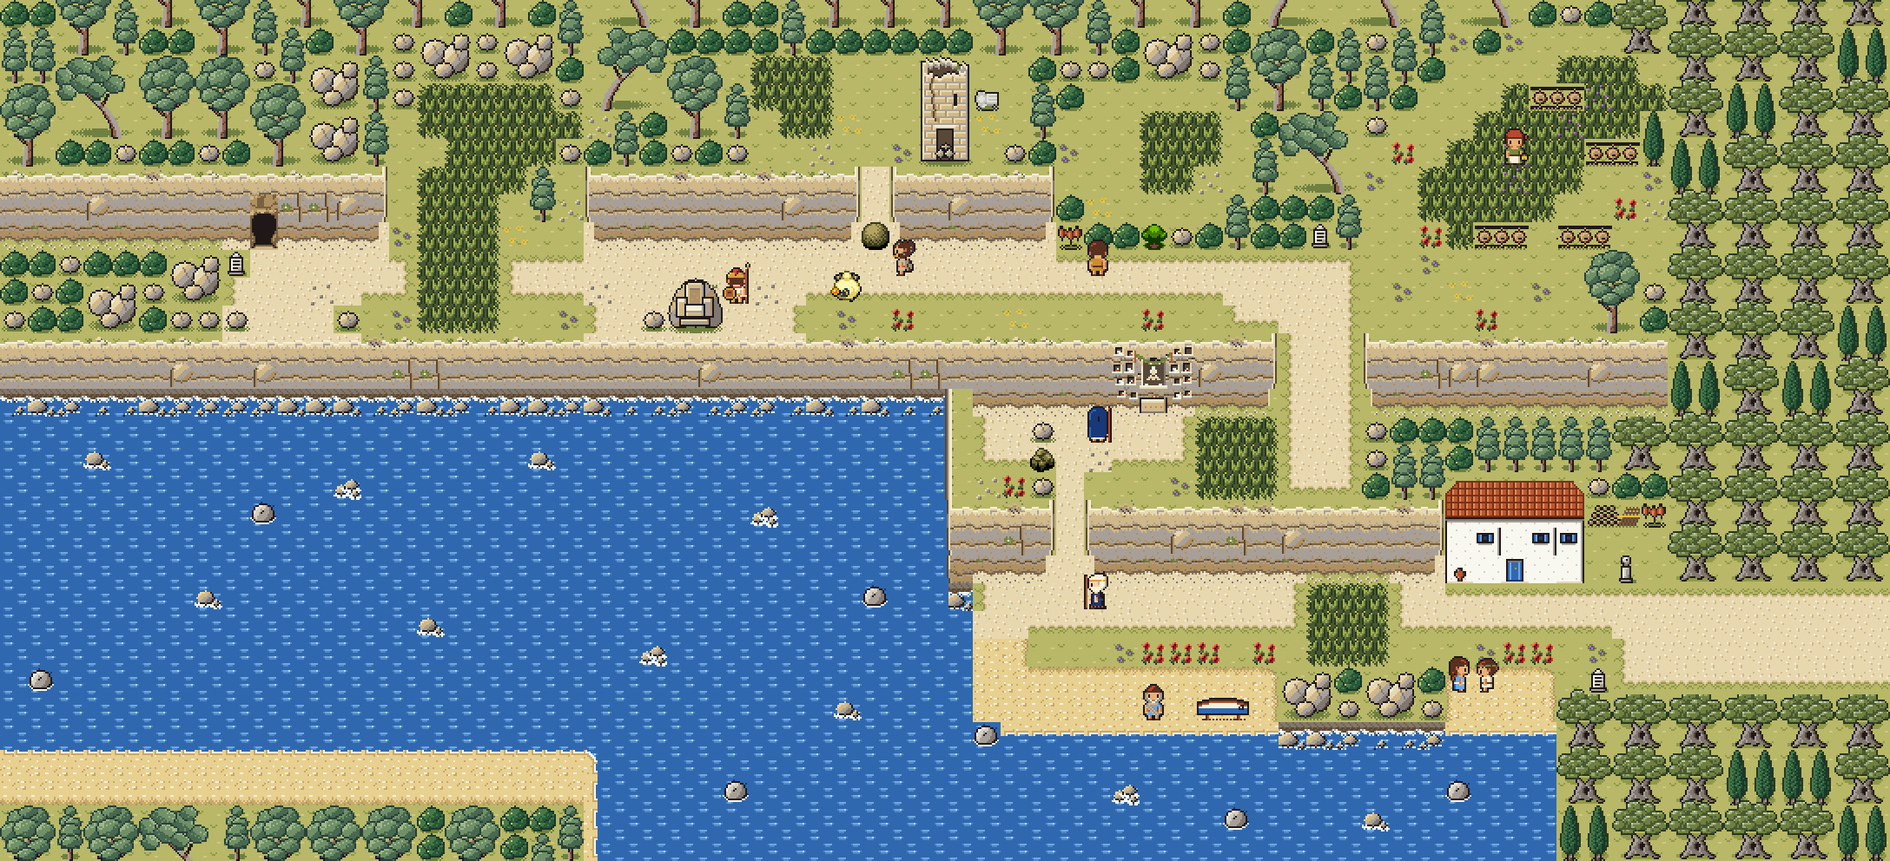
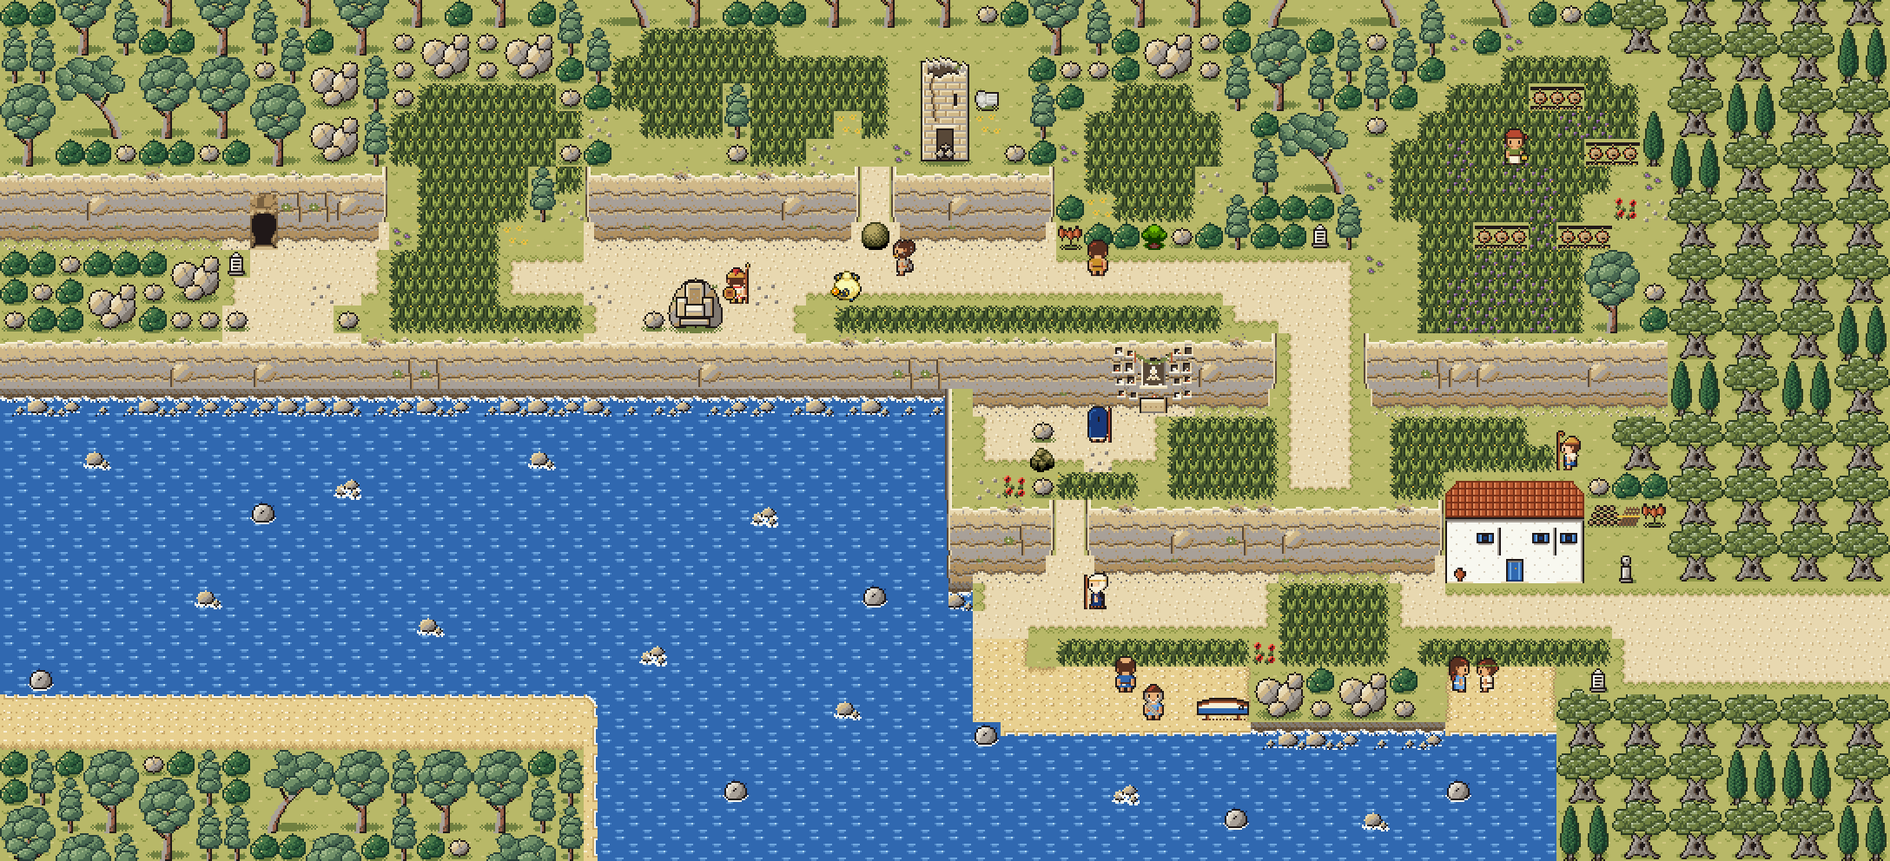
feat(map): bring Route 5 up to the land-route standard
MAP_DESIGN.md section 8 arrived mid-build, and map_audit.py classed the road
as a sea route: the strait under the cliff road was most of its open ground
and it has one connected end. It is the land road to the Mysteries, so it now
meets the land numbers: grass in every optional pocket (226 cells, 16 a
screen), four-deep bands, the terrace running on east of the cutting with a
shepherd and an Ether, a salt merchant on the beach (7 trainers), and Salamis
two rows nearer so water is under half the open ground. The audit shows 0
FAIL and 0 WARN on both maps.

diff --git a/tools/ichor/maps/route5.py b/tools/ichor/maps/route5.py
@@ -264,25 +264,26 @@ C_ROWS = (21, 23)             # the shore road: road on 21-22, a verge on 23 (4 
 C_X = (35, W - 1)
 WIDE_X = 58                   # the shore road widens to Eleusa's four rows here
 CLEARING = (14, 2, 20, 8)     # the pine clearing north of the road
-BAND1 = (15, 17)              # columns of the first forced band (clearing and road)
+BAND1 = (14, 17)            # columns of the first forced band (clearing and road)
 SEAT = (24, 10)               # rock_seat_path, 2x2: the road's one-cell ledge is (24..25, 9)
 KNOLL_GAP = 31                # the cleft up to the watchtower's knoll
-KNOLL = (26, 2, 36, 5)
+KNOLL = (22, 1, 36, 5)
 TOWER = (33, 2)               # watchtower 2x4
 HOLLOW_GAP = 41               # the thicket's gap into the pine hollow
 PINE_HOLLOW = (38, 3, 44, 7)
 STEP_X = 34                   # where the coast steps south: B's west edge
 CUT_AB = (46, 48)             # the cutting from the cliff road down to the terrace
 NICHES = (40, 12)             # niches 3x3: brink, face, foot
-BAND2 = (43, 45)              # columns of the second forced band, on the terrace
+BAND2 = (42, 45)              # columns of the second forced band, on the terrace
 STAIR_X = 38                  # the cleft stair from the terrace down to the shore
 LOOKOUT_X = 37                # the rockfall closing the terrace's lookout (35-36)
 POINT = (35, 36)              # the shore point's columns, behind the rubble at x = 37
-BAND3 = (47, 49)              # columns of the third band, on the shore road
+BAND3 = (46, 49)              # columns of the third band, on the shore road
 INN_AT = (52, 17)             # the inn's 5x4 front, its door at INN_AT + INN_DOOR
 HERM_AT = (58, 20)            # the great herm; its landing tile is south of it
 MEADOW = (49, 1, 59, 11)
-SALAMIS_ROW = 27              # Salamis's shore across the strait, bottom left
+TERRACE_END = 57              # the terrace runs on east of the cutting to here
+SALAMIS_ROW = 25              # Salamis's shore across the strait, bottom left
 
 
 # ---------------------------------------------------------------------------
@@ -325,30 +326,34 @@ def make_plan(g):
     # the pine clearing: grass among fallen boulders, the band right through it
     x0, y0, x1, y1 = CLEARING
     g.fill("grass", x0, y0 + 1, x1, y1)
-    g.rows("tall", 14, 3, [".#####.",
+    g.rows("tall", 14, 3, [".######",
+                           "#######",
+                           "#######",
                            ".######",
-                           "..#####",
                            ".####..",
                            ".###...",
-                           ".###...",
-                           ".###...",
-                           ".###...",
-                           ".###..."])
+                           "####...",
+                           "####...",
+                           "####..."])
     # the watchtower's knoll, up the cleft
     x0, y0, x1, y1 = KNOLL
     g.fill("grass", x0, y0, x1, y1)
     g.fill("path", KNOLL_GAP, y1 + 1, KNOLL_GAP, 8)
-    g.rows("tall", 27, 2, ["###.",
-                           "###.",
-                           ".##."])
+    g.rows("tall", 22, 1, [".#####....",
+                           "##########",
+                           "##########",
+                           ".#########",
+                           "....####.."])
     # the pine hollow, behind the thicket
     x0, y0, x1, y1 = PINE_HOLLOW
     g.fill("grass", x0 + 1, y0, x1 - 1, y1)
     g.fill("grass", x0, y0 + 1, x1, y1 - 1)
     g.fill("grass", HOLLOW_GAP, y1 + 1, HOLLOW_GAP, 8)
-    g.rows("tall", 39, 4, ["..###",
-                           "..###",
-                           "..##."])
+    g.rows("tall", 39, 3, [".###.",
+                           "#####",
+                           "#####",
+                           "#####",
+                           ".###."])
     # the thyme meadow, off the road's east end
     g.rows("grass", 49, 1, [".....######",
                             "...########",
@@ -361,16 +366,35 @@ def make_plan(g):
                             "###########",
                             "###########",
                             "##########."])
-    g.rows("meadow", 50, 2, ["......###..",
-                             "....######.",
+    g.rows("meadow", 49, 2, [".....####..",
                              "...#######.",
+                             "..########.",
+                             ".#########.",
+                             ".########..",
+                             ".#######...",
                              "..######...",
-                             ".######....",
-                             ".#####.....",
-                             "..###......"])
+                             "..######...",
+                             "..######...",
+                             "..######...",
+                             "..######..."])
+    # long grass at the cliff's edge along the road, where it has a verge
+    g.fill("tall", 18, A_ROWS[1], 20, A_ROWS[1])
+    g.fill("tall", 30, A_ROWS[1], 43, A_ROWS[1])
+    # the terrace's east end, past the cutting: a hillside of long grass over
+    # the inn's roof, a shepherd and his flock, a pot at the far end
+    g.fill("grass", CUT_AB[1] + 1, B_ROWS[0], TERRACE_END, B_ROWS[0] + 1)
+    g.fill("grass", CUT_AB[1] + 1, B_ROWS[1], INN_AT[0] - 1, B_ROWS[1])
+    g.rows("tall", CUT_AB[1] + 2, B_ROWS[0], ["#####.",
+                                              "######",
+                                              "##...."])
     # bands across the terrace and the shore road
     g.fill("tall", BAND2[0], B_ROWS[0], BAND2[1], B_ROWS[1])
     g.fill("tall", BAND3[0], C_ROWS[0], BAND3[1], C_ROWS[1])
+    # beach grass on the shore road's verge
+    g.fill("tall", 38, C_ROWS[1], 44, C_ROWS[1])
+    g.fill("tall", 51, C_ROWS[1], 57, C_ROWS[1])
+    # and on the terrace's, under the niches
+    g.fill("tall", 38, B_ROWS[1], 40, B_ROWS[1])
     # the inn's yard and the herm's foot
     g.fill("grass", 57, 18, 59, 20)
     # the olives of Eleusa's plain: the east strip, matching Eleusa's own, with
@@ -670,9 +694,9 @@ def props(g):
     g.piece("amphorae", 38, 8)
     # the meadow: hives on their benches, thyme, a lone pine; the beekeeper's
     for (key, x, y) in (("hives", 55, 3), ("hives", 57, 5), ("hives", 53, 8), ("hives", 56, 8),
-                        ("thyme", 51, 9), ("thyme", 49, 6), ("thyme", 58, 9), ("thyme", 54, 1),
-                        ("thyme", 50, 10), ("thyme", 55, 10), ("thyme", 59, 6), ("thyme", 52, 1),
-                        ("dry_grass", 52, 10), ("pebbles", 59, 7), ("pine_young", 50, 1),
+                        ("thyme", 49, 6), ("thyme", 58, 9), ("thyme", 54, 1),
+                        ("thyme", 59, 6), ("thyme", 52, 1), ("thyme", 49, 9),
+                        ("pebbles", 59, 7), ("pine_young", 50, 1),
                         ("rock", 59, 10), ("pine_tall", 57, 9)):
         g.piece(key, x, y, block_t=True)
     for (x, y) in ((49, 4), (50, 5), (58, 7), (53, 11), (57, 2), (51, 8)):
@@ -762,6 +786,10 @@ TRAINERS = [
     ("MYRTO", GFX + "PILGRIM", 39, 15, "UP", 1, "Myrto", "TRAINER_ICHOR_MYRTO"),
     ("ARISTAIOS", GFX + "HARVESTER", 54, 5, "DOWN", 3, "Aristaios", "TRAINER_ICHOR_ARISTAIOS"),
     ("MOPSOS", GFX + "AUGUR", STAIR_X + 1, C_ROWS[0], "LEFT", 1, "Mopsos", "TRAINER_ICHOR_MOPSOS"),
+    # Optional: the shepherd at the terrace's far end, watching his long grass;
+    # the salt merchant on the beach, watching the road
+    ("DAPHNIS", GFX + "SHEPHERD", TERRACE_END - 1, B_ROWS[0] + 1, "LEFT", 3, "Daphnis", "TRAINER_ICHOR_DAPHNIS"),
+    ("KERDON", GFX + "MERCHANT", 40, 24, "UP", 2, "Kerdon", "TRAINER_ICHOR_KERDON"),
 ]
 # People: (local id, graphics, x, y, facing, script, hide flag)
 PEOPLE = [
@@ -789,6 +817,7 @@ ITEMS = [
     ("ITEM_CALCIUM", 42, 4, "FLAG_ICHOR_ITEM_ROUTE5_CALCIUM"),
     ("ITEM_SUPER_REPEL", 58, 3, "FLAG_ICHOR_ITEM_ROUTE5_SUPER_REPEL"),
     ("ITEM_REVIVE", B_X[0], B_ROWS[0], "FLAG_ICHOR_ITEM_ROUTE5_REVIVE"),
+    ("ITEM_ETHER", TERRACE_END, B_ROWS[0], "FLAG_ICHOR_ITEM_ROUTE5_ETHER"),
 ]
 # Hidden items: (item, x, y, flag)
 HIDDEN = [

diff --git a/include/constants/flags.h b/include/constants/flags.h
@@ -1735,6 +1735,7 @@
 #define FLAG_ICHOR_GOT_GOOD_ROD                 (FLAG_ICHOR_GENERAL_START + 0x048) // Ichor: Route 5: Aigialeus gave the Good Rod
 #define FLAG_ICHOR_TRADED_GELASABLE             (FLAG_ICHOR_GENERAL_START + 0x049) // Ichor: Route 5's inn: traded an Onotis for Xenokles's Gelasable GALANTHIS
 #define FLAG_ICHOR_MET_XENOKLES                 (FLAG_ICHOR_GENERAL_START + 0x04A) // Ichor: Route 5's inn: Xenokles's welcome heard
+#define FLAG_ICHOR_ITEM_ROUTE5_ETHER            (FLAG_ICHOR_GENERAL_START + 0x04B) // Ichor: Route 5: the Ether at the terrace's east end, past the shepherd
 #define FLAG_ICHOR_ITEM_ELEUSA_SUPER_POTION     (FLAG_ICHOR_GENERAL_START + 0x080) // Ichor: Eleusa: the Super Potion on the threshing floor
 #define FLAG_ICHOR_ITEM_ELEUSA_AWAKENING        (FLAG_ICHOR_GENERAL_START + 0x081) // Ichor: Eleusa: the Awakening in the poppy meadow
 #define FLAG_ICHOR_SANCTUM_OPEN                 (FLAG_ICHOR_GENERAL_START + 0x082) // Ichor: beat 22: the sanctum is open (the Ploutonion's gate and the Anaktoron's stair)

diff --git a/include/constants/opponents.h b/include/constants/opponents.h
@@ -65,7 +65,9 @@
 #define TRAINER_ICHOR_MYRTO                   112
 #define TRAINER_ICHOR_ARISTAIOS               113
 #define TRAINER_ICHOR_MOPSOS                  114
-#define TRAINERS_END_ACT1                     115
+#define TRAINER_ICHOR_DAPHNIS                 115
+#define TRAINER_ICHOR_KERDON                  116
+#define TRAINERS_END_ACT1                     117
 
 // world-act2, ids 160-319: Thyrsa, Arkadia, Astyra, Kaldera.
 #define TRAINERS_END_ACT2                     0

diff --git a/tools/ichor/tests/route5_consts.c b/tools/ichor/tests/route5_consts.c
@@ -24,6 +24,9 @@ K(TRAINER_MELANTHIOS, TRAINER_ICHOR_MELANTHIOS)
 K(TRAINER_MYRTO, TRAINER_ICHOR_MYRTO)
 K(TRAINER_ARISTAIOS, TRAINER_ICHOR_ARISTAIOS)
 K(TRAINER_MOPSOS, TRAINER_ICHOR_MOPSOS)
+K(TRAINER_DAPHNIS, TRAINER_ICHOR_DAPHNIS)
+K(TRAINER_KERDON, TRAINER_ICHOR_KERDON)
+K(FLAG_ITEM_ETHER, FLAG_ICHOR_ITEM_ROUTE5_ETHER)
 
 // items and their flags
 K(FLAG_ITEM_SUPER_POTION, FLAG_ICHOR_ITEM_ROUTE5_SUPER_POTION)

diff --git a/design/phase2/MAPS_route5.md b/design/phase2/MAPS_route5.md
@@ -21,14 +21,14 @@ The road is a switchback in three legs, each a step lower toward the sea, so the
 
 | Leg | Where | What's on it |
 |---|---|---|
-| A, the cliff road | rows 9-11, from the mouth (9,8) east to x 48 | The first view of the strait. The pine clearing: the first forced band (x 15-17), right through the clearing and across the road, walled by the rockfall above and the drop below; the Super Potion in the clearing. The rock seat (24-25, 10-11) on the edge: the road narrows to one cell beside it, and Kynegeiros (26,10) sees the one cell out. The Great Ball beside the seat. Melanthios and his kid at the knoll's cleft; the watchtower on its knoll behind a column drum (the Girdle, Act II) with the PP Up. The pitch-gatherer under the pines; the pine hollow behind a thorn thicket (Demeter's Sickle) with the Calcium. The fork: the meadow's sign. |
+| A, the cliff road | rows 9-11, from the mouth (9,8) east to x 48 | The first view of the strait. The pine clearing: the first forced band (x 14-17), right through the clearing and across the road, walled by the rockfall above and the drop below; the Super Potion in the clearing. The rock seat (24-25, 10-11) on the edge: the road narrows to one cell beside it, and Kynegeiros (26,10) sees the one cell out. The Great Ball beside the seat. Melanthios and his kid at the knoll's cleft; the watchtower on its knoll behind a column drum (the Girdle, Act II) with the PP Up. The pitch-gatherer under the pines; the pine hollow behind a thorn thicket (Demeter's Sickle) with the Calcium. The fork: the meadow's sign. |
 | The meadow | x 49-59, rows 1-11, off the road's east end | The thyme meadow and its hives (optional): Aristaios, the Super Repel at the far end, the Honey hidden under a hive, the daily dig spot (stub). |
-| B, the terrace | down the cutting (46-48, 12-14), then west on rows 15-17 | The second forced band (x 43-45) straight after the cutting. Aphrodite's niches in the bank (40-42, 12-14): the niches' text, her altar, a Pretty Feather hidden in a niche, Myrto facing the rock. The lookout at the terrace's west end, over the strait, closed by a rockfall whose middle is marble rubble (the Bronze Hammer): the Revive behind it. |
-| C, the shore road | down the cleft stair (38, 17-20), then east on rows 21-23 | Mopsos (39,21) sees the stair's foot. The shore point west of it: the Heart Scale hidden at its tip. The beach: Aigialeus and his boat (the Good Rod); fishing from the sand. The third forced band (x 47-49), walled from the sea by a scrubby rise. Two initiates resting on the beach. The Inn of the Plain (door (54,20)): rest and Xenokles's trade. The great herm (58,20) and the inn's yard (the Oran Berry). Then the road widens to Eleusa's four rows between olive groves, and crosses the seam. |
+| B, the terrace | down the cutting (46-48, 12-14), then west on rows 15-17 | East of the cutting (optional): a hillside of long grass over the inn's roof, Daphnis the shepherd, and an Ether at its far end. The second forced band (x 42-45) straight after the cutting. Aphrodite's niches in the bank (40-42, 12-14): the niches' text, her altar, a Pretty Feather hidden in a niche, Myrto facing the rock. The lookout at the terrace's west end, over the strait, closed by a rockfall whose middle is marble rubble (the Bronze Hammer): the Revive behind it. |
+| C, the shore road | down the cleft stair (38, 17-20), then east on rows 21-23 | Mopsos (39,21) sees the stair's foot. The shore point west of it: the Heart Scale hidden at its tip. The beach: Aigialeus and his boat (the Good Rod); fishing from the sand. The third forced band (x 46-49), walled from the sea by a scrubby rise. Two initiates resting on the beach. The Inn of the Plain (door (54,20)): rest and Xenokles's trade. The great herm (58,20) and the inn's yard (the Oran Berry). Then the road widens to Eleusa's four rows between olive groves, and crosses the seam. |
 
 **Rhythm,** as MAP_DESIGN asks: the mouth and the first view (calm); the clearing's band; Kynegeiros at the seat; the seat; the knoll, the pine hollow and the fork; the meadow (optional); the cutting and the terrace's band; the niches and Myrto; the lookout (the Hammer); the stair and Mopsos; the point, the beach and the Good Rod; the third band; the inn (rest); the herm; Eleusa's olives.
 
-**Trainers** (ids 110-114, levels 20-21): Kynegeiros (Hoplite, mandatory), Melanthios (Goatherd, new, optional), Myrto (Pilgrim, optional), Aristaios (Beekeeper in the script; a Harvester until that class is drawn, optional), Mopsos (Augur, new, mandatory). The two mandatory ones stand beside the one cell out of a 1-wide way and see only that cell (sight 1), so after a battle they never stand in the way; `route5.py` checks that no trainer can stop anywhere that cuts the road.
+**Trainers** (ids 110-116, levels 20-21): Kynegeiros (Hoplite, mandatory), Melanthios (Goatherd, new, optional), Myrto (Pilgrim, optional), Aristaios (Beekeeper in the script; a Harvester until that class is drawn, optional), Daphnis (Shepherd, new, optional, the terrace's east end), Mopsos (Augur, new, mandatory), Kerdon (Merchant, new, optional, a salt seller on the beach). The two mandatory ones stand beside the one cell out of a 1-wide way and see only that cell (sight 1), so after a battle they never stand in the way; `route5.py` checks that no trainer can stop anywhere that cuts the road.
 
 **Signs:** the mouth (8,9), the meadow fork (47,8), the east end (57,24), and the inn's sign on its front.
 
@@ -81,6 +81,7 @@ The great herm's landing tile, `HEAL_LOCATION_HERM_AETHOS_ROUTE_5`, is (58,21).
 | Calcium | visible | the pine hollow (42,4), behind the thicket (Demeter's Sickle) | `FLAG_ICHOR_ITEM_ROUTE5_CALCIUM` |
 | Super Repel | visible | the far end of the thyme meadow (58,3) | `FLAG_ICHOR_ITEM_ROUTE5_SUPER_REPEL` |
 | Revive | visible | the terrace's lookout (35,15), behind the rubble (the Hammer) | `FLAG_ICHOR_ITEM_ROUTE5_REVIVE` |
+| Ether | visible | the terrace's east end (57,15), past Daphnis's long grass | `FLAG_ICHOR_ITEM_ROUTE5_ETHER` |
 | Honey | hidden | under a hive in the meadow (57,5) | `FLAG_ICHOR_HIDDEN_ROUTE5_HONEY` (0x2B8) |
 | Pretty Feather | hidden | in a niche of Aphrodite's shrine (42,14) | `FLAG_ICHOR_HIDDEN_ROUTE5_PRETTY_FEATHER` (0x2B9) |
 | Heart Scale | hidden | the shore point's tip (35,25) | `FLAG_ICHOR_HIDDEN_ROUTE5_HEART_SCALE` (0x2BA) |
@@ -88,7 +89,7 @@ The great herm's landing tile, `HEAL_LOCATION_HERM_AETHOS_ROUTE_5`, is (58,21).
 | Good Rod | gift | Aigialeus, on the beach | `FLAG_ICHOR_GOT_GOOD_ROD` |
 | Gelasable GALANTHIS | trade an Onotis | Xenokles, the inn | `FLAG_ICHOR_TRADED_GELASABLE` |
 
-Also `FLAG_ICHOR_ROUTE5_THICKET_CUT` and `FLAG_ICHOR_ROUTE5_RUBBLE_BROKEN` (the two gates' hide flags, so they stay cleared) and `FLAG_ICHOR_MET_XENOKLES`. Bank flags 0x040-0x04A of this agent's 0x040-0x05F. The vanilla range 0x2B8-0x2C7 has only four free flags (0x2B8-0x2BB), so the road has four hidden items, not five: a Stardust by the first view was cut.
+Also `FLAG_ICHOR_ROUTE5_THICKET_CUT` and `FLAG_ICHOR_ROUTE5_RUBBLE_BROKEN` (the two gates' hide flags, so they stay cleared) and `FLAG_ICHOR_MET_XENOKLES`. Bank flags 0x040-0x04B of this agent's 0x040-0x05F. The vanilla range 0x2B8-0x2C7 has only four free flags (0x2B8-0x2BB), so the road has four hidden items, not five: a Stardust by the first view was cut.
 
 ## Render-and-critique passes
 
@@ -111,6 +112,24 @@ Also `FLAG_ICHOR_ROUTE5_THICKET_CUT` and `FLAG_ICHOR_ROUTE5_RUBBLE_BROKEN` (the 
 - *The woods were speckled with grey rocks* in rows. **Fix:** fewer rocks in the woods' single cells, more oak.
 - *The pitch-gatherer's name overflowed its box.* PITCH-GATHERER is 67 px in the name box's small font, and the box holds 64. **Fix:** RESIN TAPPER (56 px). Every other line was measured with `text_width.py --scan` on the compiled scripts: none is over 216 px.
 - *The view at the meadow's top edge* shows the border: a row of Aleppo pines, which reads as the mountain's forest going on. The west edge's border is never seen (nothing walkable within 7 columns of it), nor the south's (the lowest walkable row is six rows above it).
+
+**Pass 4** (MAP_DESIGN.md §8, the route standard in numbers, came in during the build):
+- *`map_audit.py` classed the road as a sea route:* its open ground was 52% water (the strait under the cliff road) and it has one connected end (Eleusa; the Hollow's end is a warp), so the grass rules didn't apply. It's the land road to the Mysteries and is built to the land standard. **Fix:** more land and less water: Salamis's shore comes two rows nearer (water 47% of the open ground), and the terrace runs on east of the cutting.
+- *98 grass cells (7 a screen) against the land standard's 15 a screen (211 for 14.1 screens).* **Fix:** 226 (16 a screen), all where there's a reason to go: the clearing's meadow round its Super Potion, the knoll and the pine hollow round their gated items, the thyme meadow nearly filled (Aristaios, the Honey, the Super Repel), the terrace's new east end (Daphnis and an Ether), long grass along the cliff road's verge and the terrace's, and beach grass on the shore road's verge. The first and second bands are four deep now, the third too; the audit's forced grass is 13.
+- *Five trainers against seven (0.5 a screen).* **Fix:** Daphnis the shepherd in the terrace's long grass and Kerdon the salt merchant on the beach, both optional.
+
+## The audit
+
+`python3 tools/ichor/map_audit.py Route5` (run from the world-act1 worktree's copy with `--root` on this one):
+
+```
+Route5_SkironianCliffs  [route, Eleusa, early]
+  68x31 = 14.1 screens; grass 226 (16/screen, 11%); water 24%; forced grass 13; trainers 7; items 7 + 4 hidden; signs 13; NPCs 7; wild: land MDN (11/10/8 spp), surf M (4 spp), fish M (4 spp), rock M (3 spp), Lv 17–21
+Route5_RestHouse  [interior, Eleusa, early]
+  16x9 = 1.0 screens; grass 0 (0/screen, 0%); trainers 0; items 0 + 0 hidden; signs 5; NPCs 4; wild: none
+
+2 map(s): 0 hard shortfall(s) in 0 map(s), 0 warning(s)
+```
 
 ## In game
 

diff --git a/design/phase2/BUILD.md b/design/phase2/BUILD.md
@@ -108,7 +108,7 @@ Built by `tools/ichor/maps/route5.py` (68x31) and `tools/ichor/maps/route5_rooms
 | `MAP_ROUTE5_SKIRONIAN_CLIFFS` east edge | `MAP_ELEUSA_VILLAGE` west edge | map connection, `right` offset **-3** / Eleusa's `left` offset **3**. Open on our rows 21-24 at x = 67, Eleusa's 24-27. Our columns 60-67 are aethos only. Note: `eleusa.py` writes `"connections": null`; it needs to keep this entry when it's next run. |
 | Route 5 warp **1**, the inn's door (54,20) | `MAP_ROUTE5_REST_HOUSE` warp 0 | the inn's mat (7-8, 8) is its warp 0, back to Route 5's warp 1 |
 
-Great herm: `HERM_AETHOS_ROUTE_5` at (58,20), `HEAL_LOCATION_HERM_AETHOS_ROUTE_5` at (58,21) (row in `src/data/ichor_herms.h`). Trainers 110-114: `TRAINER_ICHOR_KYNEGEIROS`, `_MELANTHIOS`, `_MYRTO`, `_ARISTAIOS`, `_MOPSOS` (`TRAINERS_END_ACT1` 115). Bank flags 0x040-0x04A: `FLAG_ICHOR_ITEM_ROUTE5_SUPER_POTION`, `_GREAT_BALL`, `_PP_UP`, `_CALCIUM`, `_SUPER_REPEL`, `_REVIVE`, `FLAG_ICHOR_ROUTE5_THICKET_CUT`, `FLAG_ICHOR_ROUTE5_RUBBLE_BROKEN`, `FLAG_ICHOR_GOT_GOOD_ROD`, `FLAG_ICHOR_TRADED_GELASABLE`, `FLAG_ICHOR_MET_XENOKLES`. Vanilla 0x2B8-0x2BB (the only free ones in 0x2B8-0x2C7): `FLAG_ICHOR_HIDDEN_ROUTE5_HONEY`, `_PRETTY_FEATHER`, `_HEART_SCALE`, `_ORAN_BERRY`. In-game trade `INGAME_TRADE_ICHOR_GALANTHIS`. The inn is Thria's Inn of the Plain (Xenokles, his stable boy and his trade), moved to the road; Thria's other two households stay with world-act2.
+Great herm: `HERM_AETHOS_ROUTE_5` at (58,20), `HEAL_LOCATION_HERM_AETHOS_ROUTE_5` at (58,21) (row in `src/data/ichor_herms.h`). Trainers 110-116: `TRAINER_ICHOR_KYNEGEIROS`, `_MELANTHIOS`, `_MYRTO`, `_ARISTAIOS`, `_MOPSOS`, `_DAPHNIS`, `_KERDON` (`TRAINERS_END_ACT1` 117). Bank flags 0x040-0x04B: `FLAG_ICHOR_ITEM_ROUTE5_SUPER_POTION`, `_GREAT_BALL`, `_PP_UP`, `_CALCIUM`, `_SUPER_REPEL`, `_REVIVE`, `_ETHER`, `FLAG_ICHOR_ROUTE5_THICKET_CUT`, `FLAG_ICHOR_ROUTE5_RUBBLE_BROKEN`, `FLAG_ICHOR_GOT_GOOD_ROD`, `FLAG_ICHOR_TRADED_GELASABLE`, `FLAG_ICHOR_MET_XENOKLES`. Vanilla 0x2B8-0x2BB (the only free ones in 0x2B8-0x2C7): `FLAG_ICHOR_HIDDEN_ROUTE5_HONEY`, `_PRETTY_FEATHER`, `_HEART_SCALE`, `_ORAN_BERRY`. In-game trade `INGAME_TRADE_ICHOR_GALANTHIS`. The inn is Thria's Inn of the Plain (Xenokles, his stable boy and his trade), moved to the road; Thria's other two households stay with world-act2.
 
 **Engine APIs now on main** (`design/ENGINE_API.md`): relics by `giveitem` (`ITEM_HECATES_TORCH`); obstacles (`OBJ_EVENT_GFX_BREAKABLE_ROCK` + `EventScript_RockSmash` for marble rubble, needing the Bronze Hammer); darkness (`"cave": true`), braziers (`EventScript_IchorBrazier`, this session's block `FLAG_ICHOR_BRAZIERS_START + 0x14`–`0x1F`) and lit zones; altars (`EventScript_IchorAltar_<God>`, `EventScript_IchorDesecratedAltar`); great herms (`EventScript_IchorGreatHerm`, `HERM_AETHOS_ROUTE_4` / `_5`, with a table row in `src/data/ichor_herms.h` and a heal location each). Use them, not stubs, unless the API isn't built yet.
 
